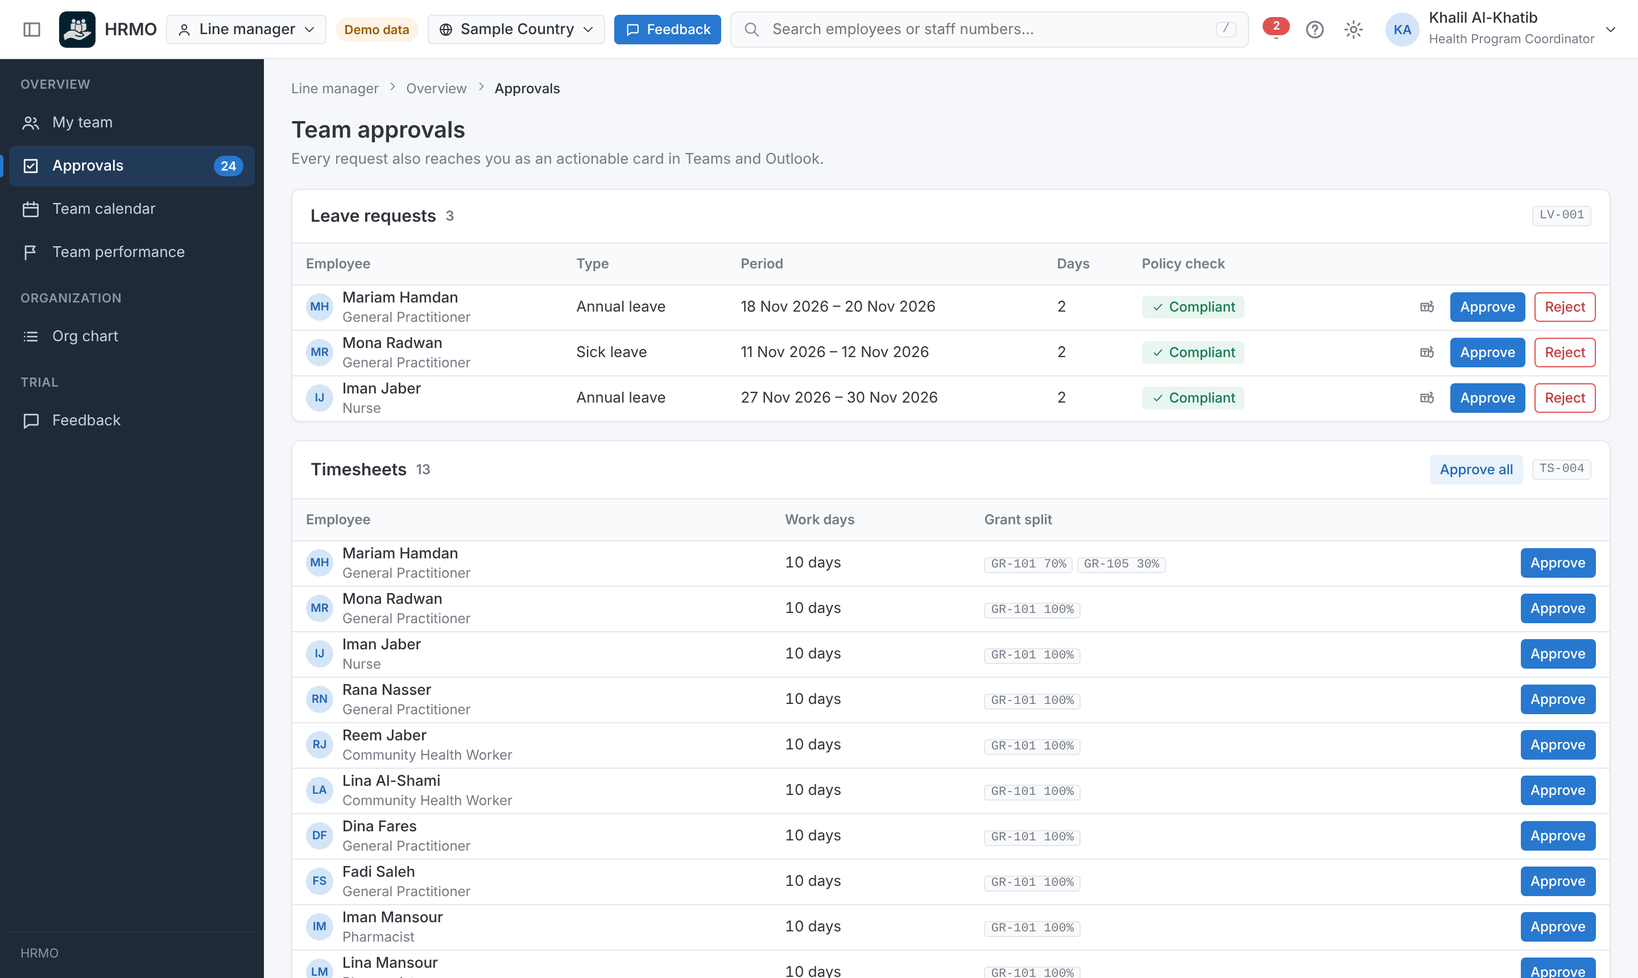
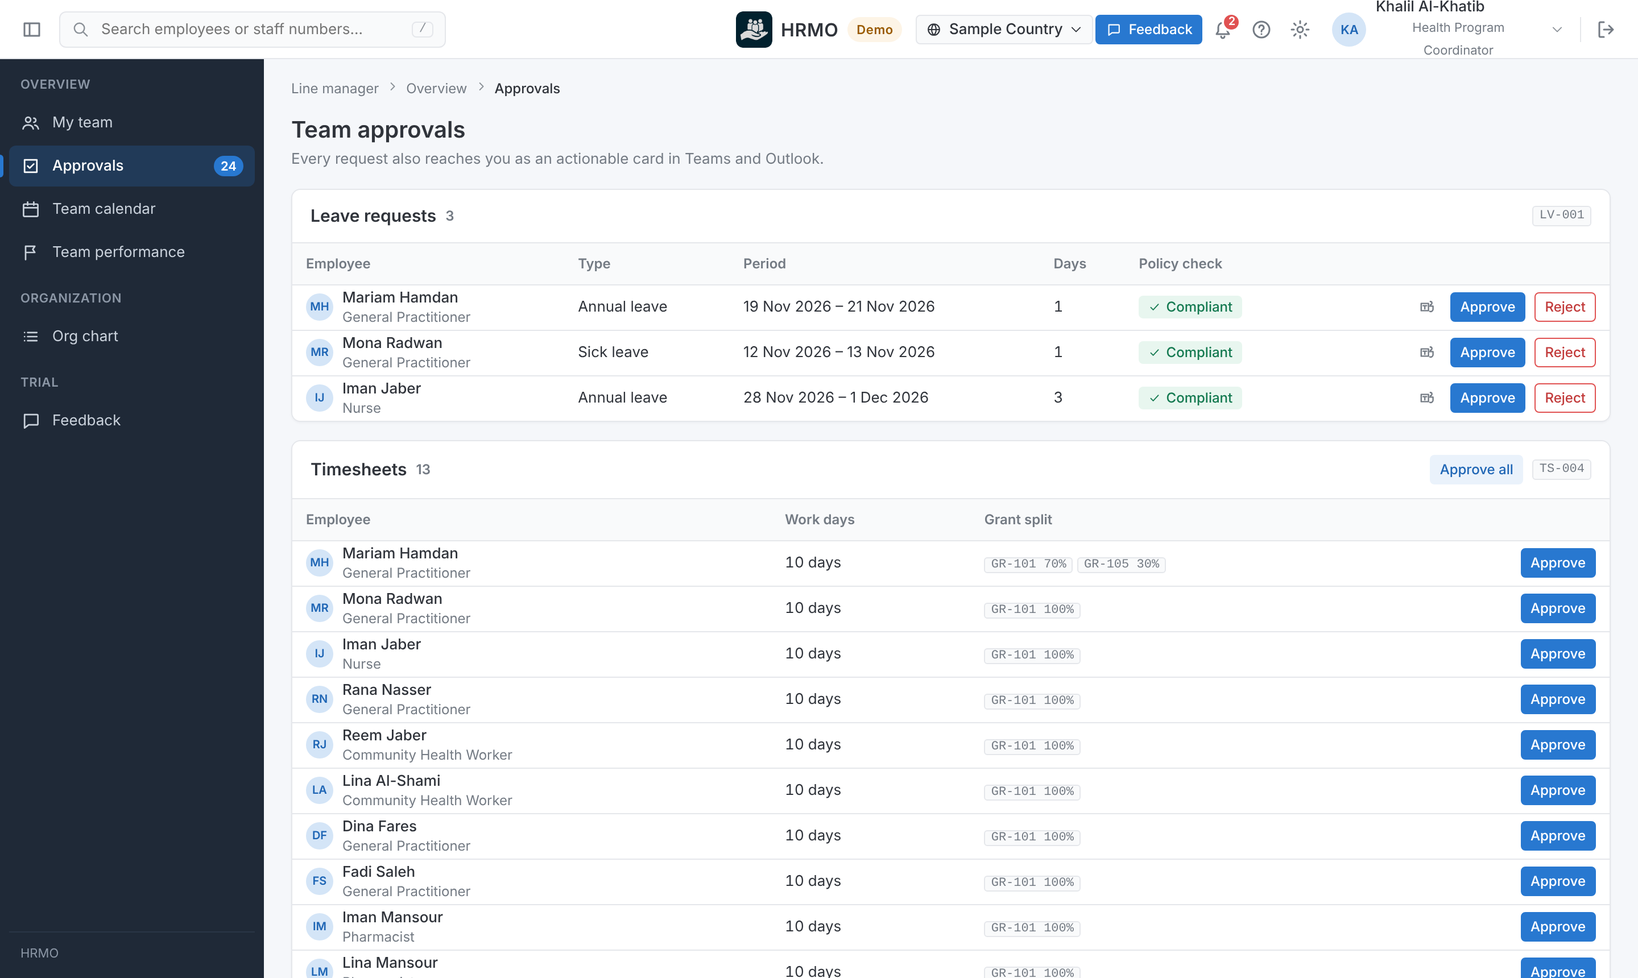
Sign-out, sign-in screen and a redesigned top bar
- The workspace switcher is removed from the top bar and from the user menu
- Sign-out icon at the end of the top bar and a sign-out item in the user menu; signing
  out opens a sign-in screen with the four demo accounts
- Top bar rebuilt as three zones with the logo centred at every width: menu and search at
  the start, notifications, account and sign-out at the end
- On phones the bar shows menu, logo, notifications, account and sign-out only
- The notification count no longer covers the bell
- Demo e-mail addresses follow each person's name

Claude-Session: https://claude.ai/code/session_01Ak2Py28yani1Do5WRRv8zp

diff --git a/demo/assets/modules/feedback.js b/demo/assets/modules/feedback.js
@@ -4,11 +4,11 @@
 (function () {
   'use strict';
   const H = window.HRMO;
-  const { S, EXT, L, esc, icon, fmtD, badge, toast, render, openOverlay, closeOverlay, store, addNav, pageHead, table, modal, emptyState, kpi, TODAY, iso } = H;
+  const { S, D, EXT, L, T, esc, icon, fmtD, badge, toast, render, openOverlay, closeOverlay, store, addNav, pageHead, table, modal, emptyState, kpi, TODAY, iso } = H;
   const CFG = (window.HRMO_CONFIG && window.HRMO_CONFIG.feedback) || {};
   const canSend = () => !!CFG.endpoint;
 
-  const TESTER = store('tester', () => ({ name: '', welcomed: false }));
+  const TESTER = store('tester', () => ({ name: '', welcomed: false, signedOut: false }));
   const ITEMS = store('feedback', () => []);
   try { const q = new URLSearchParams(location.search).get('tester'); if (q && !TESTER.name) TESTER.name = q.slice(0, 60); } catch (e) { /* ignore */ }
 
@@ -23,20 +23,27 @@
   ];
 
   // ---------- Welcome screen ----------
+  // The same screen serves as the first-visit welcome and as the sign-in screen after signing out.
   EXT.overlays.welcome = () => {
-    TESTER.welcomed = true;
-    return `<div class="welcome" role="dialog" aria-modal="true" aria-label="${esc(L('مرحبا بك في HRMO', 'Welcome to HRMO'))}"><div class="welcome-in">
-      <div class="welcome-top"><img src="assets/brand/apple-touch-icon.png" alt="" width="56" height="56"><div class="seg" role="group" aria-label="${esc(L('اللغة', 'Language'))}"><button data-act="wl-lang" data-v="ar" aria-pressed="${S.lang === 'ar'}">العربية</button><button data-act="wl-lang" data-v="en" aria-pressed="${S.lang === 'en'}">English</button></div></div>
-      <h1>${esc(TESTER.name ? L(`مرحبا ${TESTER.name}`, `Welcome, ${TESTER.name}`) : L('مرحبا بك في HRMO', 'Welcome to HRMO'))}</h1>
-      <p class="welcome-lead">${esc(L('نظام لإدارة الموارد البشرية في المؤسسات الإنسانية وغير الربحية. هذه نسخة تجريبية ببيانات وهمية، ونريد رأيك فيها قبل استكمال البناء.', 'An HR management system for humanitarian and non-profit organizations. This is a trial version with fictitious data, and we would like your view before building further.'))}</p>
+    const out = TESTER.signedOut; TESTER.welcomed = true;
+    const langs = `<div class="seg" role="group" aria-label="${esc(L('اللغة', 'Language'))}"><button data-act="wl-lang" data-v="ar" aria-pressed="${S.lang === 'ar'}">العربية</button><button data-act="wl-lang" data-v="en" aria-pressed="${S.lang === 'en'}">English</button></div>`;
+    const card = ([r, ic, name, a, b]) => { const p = H.empById.get(D.personas[r]); return `<button class="welcome-role" data-act="wl-start" data-role="${r}"><span class="wr-ic">${icon(ic, 20)}</span><span class="wr-t">${esc(L(...name))}</span>${out ? `<span class="wr-d">${esc(T(p.name.short))}</span><span class="wr-d">${esc(T(p.position))}</span>` : `<span class="wr-d">${esc(L(...a))}</span><span class="wr-d">${esc(L(...b))}</span>`}</button>`; };
+    const title = out ? L('تسجيل الدخول إلى HRMO', 'Sign in to HRMO') : TESTER.name ? L(`مرحبا ${TESTER.name}`, `Welcome, ${TESTER.name}`) : L('مرحبا بك في HRMO', 'Welcome to HRMO');
+    return `<div class="welcome ${out ? 'signin' : ''}" role="dialog" aria-modal="true" aria-label="${esc(title)}"><div class="welcome-in">
+      <div class="welcome-top"><img src="assets/brand/apple-touch-icon.png" alt="" width="56" height="56">${langs}</div>
+      <h1>${esc(title)}</h1>
+      ${out ? `<p class="welcome-lead">${esc(L('سجلت خروجك. اختر الحساب الذي تريد الدخول به.', 'You are signed out. Choose the account to sign in with.'))}</p>`
+    : `<p class="welcome-lead">${esc(L('نظام لإدارة الموارد البشرية في المؤسسات الإنسانية وغير الربحية. هذه نسخة تجريبية ببيانات وهمية، ونريد رأيك فيها قبل استكمال البناء.', 'An HR management system for humanitarian and non-profit organizations. This is a trial version with fictitious data, and we would like your view before building further.'))}</p>
       <div class="field welcome-name"><label for="wl-name">${esc(L('اسمك (يظهر مع ملاحظاتك)', 'Your name (shown with your feedback)'))}</label><input id="wl-name" class="input" data-wl="name" value="${esc(TESTER.name)}" autocomplete="name" placeholder="${esc(L('اختياري', 'Optional'))}"></div>
-      <h2>${esc(L('اختر واجهة للبدء', 'Choose a workspace to start'))}</h2>
-      <div class="welcome-roles">${ROLE_CARDS.map(([r, ic, name, a, b]) => `<button class="welcome-role" data-act="wl-start" data-role="${r}"><span class="wr-ic">${icon(ic, 20)}</span><span class="wr-t">${esc(L(...name))}</span><span class="wr-d">${esc(L(...a))}</span><span class="wr-d">${esc(L(...b))}</span></button>`).join('')}</div>
-      <div class="welcome-note">${icon('chat', 18)}<div><b>${esc(L('رأيك هو الهدف', 'Your view is the goal'))}</b><br>${esc(L('في أي شاشة اضغط زر "ملاحظة" واكتب ما تراه: قاعدة غير دقيقة، وظيفة ناقصة، أو شيء صعب الاستخدام. تسجل الشاشة التي كنت فيها تلقائيا.', 'On any screen press "Feedback" and write what you see: an inaccurate rule, a missing feature, or something hard to use. The screen you were on is recorded automatically.'))}</div></div>
-      <p class="welcome-foot">${esc(L('يمكنك التنقل بين الواجهات الأربع في أي وقت من أعلى الصفحة. كل ما تدخله يحفظ في متصفحك فقط.', 'You can switch between the four workspaces at any time from the top of the page. Everything you enter stays in your browser.'))}</p>
+      <h2>${esc(L('اختر واجهة للبدء', 'Choose a workspace to start'))}</h2>`}
+      <div class="welcome-roles">${ROLE_CARDS.map(card).join('')}</div>
+      ${out ? '' : `<div class="welcome-note">${icon('chat', 18)}<div><b>${esc(L('رأيك هو الهدف', 'Your view is the goal'))}</b><br>${esc(L('في أي شاشة اضغط زر "ملاحظة" واكتب ما تراه: قاعدة غير دقيقة، وظيفة ناقصة، أو شيء صعب الاستخدام. تسجل الشاشة التي كنت فيها تلقائيا.', 'On any screen press "Feedback" and write what you see: an inaccurate rule, a missing feature, or something hard to use. The screen you were on is recorded automatically.'))}</div></div>`}
+      <p class="welcome-foot">${esc(out ? L('في النسخة الفعلية يدخل كل شخص بحساب العمل ويرى واجهته فقط. هنا تختار الحساب لأن البيانات تجريبية.', 'In production each person signs in with their work account and sees only their own workspace. Here you choose the account because the data is fictitious.') : L('للانتقال إلى واجهة أخرى سجل الخروج من الأيقونة أعلى الصفحة ثم اختر حسابا آخر. كل ما تدخله يحفظ في متصفحك فقط.', 'To move to another workspace, sign out with the icon at the top of the page and choose another account. Everything you enter stays in your browser.'))}</p>
     </div></div>`;
   };
-  if (!TESTER.welcomed) S.overlay = { type: 'welcome' };
+  if (!TESTER.welcomed || TESTER.signedOut) S.overlay = { type: 'welcome' };
+  // While signed out the sign-in screen cannot be dismissed.
+  EXT.afterRender.push(() => { if (TESTER.signedOut && (!S.overlay || S.overlay.type !== 'welcome')) { S.overlay = { type: 'welcome' }; render(); } });
 
   // ---------- Feedback form ----------
   const blank = () => ({ type: 'POLICY', priority: 'SHOULD', rating: 0, text: '', area: '' });
@@ -93,7 +100,8 @@
   Object.assign(EXT.actions, {
     'wl-open': () => openOverlay({ type: 'welcome' }),
     'wl-lang': (t) => { S.lang = t.dataset.v; render(); },
-    'wl-start': (t) => { S.role = t.dataset.role; S.overlay = null; render(); toast(L('اضغط "ملاحظة" في أي وقت لتسجيل رأيك.', 'Press "Feedback" at any time to record your view.')); },
+    signout: () => { TESTER.signedOut = true; S.navOpen = false; S.overlay = { type: 'welcome' }; const th = document.getElementById('toast-host'); if (th) th.innerHTML = ''; const tp = document.getElementById('tooltip'); if (tp) tp.hidden = true; render(); },
+    'wl-start': (t) => { const was = TESTER.signedOut; TESTER.signedOut = false; S.role = t.dataset.role; S.overlay = null; render(); if (was) { toast(L(`مرحبا ${T(H.persona().name.short)}`, `Welcome, ${T(H.persona().name.short)}`)); return; } toast(L('اضغط "ملاحظة" في أي وقت لتسجيل رأيك.', 'Press "Feedback" at any time to record your view.')); },
     'fb-open': () => { S.fb = Object.assign(blank(), { area: here() }); openOverlay({ type: 'feedback' }); },
     'fb-rate': (t) => { const n = +t.dataset.v; S.fb.rating = S.fb.rating === n ? 0 : n; render(); },
     'fb-submit': async () => {

diff --git a/demo/assets/styles.css b/demo/assets/styles.css
@@ -107,23 +107,27 @@ svg { flex: none; }
 
 /* ---------- 3. Top bar ---------- */
 .app { display: grid; grid-template-rows: var(--h-topbar) minmax(0, 1fr); grid-template-columns: minmax(0, 1fr); height: 100vh; height: 100dvh; }
-.topbar { display: flex; align-items: center; gap: var(--s-2); padding-inline: var(--s-3); background: var(--surface); border-bottom: 1px solid var(--border); position: relative; z-index: 30; }
-.brand { display: flex; align-items: center; gap: var(--s-2); font-weight: var(--fw-semibold); font-size: 15px; white-space: nowrap; }
+.topbar { display: grid; grid-template-columns: minmax(0, 1fr) auto minmax(0, 1fr); align-items: center; gap: var(--s-3); padding-inline: var(--s-3); background: var(--surface); border-bottom: 1px solid var(--border); position: relative; z-index: 30; }
+.tb-start { display: flex; align-items: center; gap: var(--s-2); min-width: 0; }
+.brand { display: flex; align-items: center; gap: var(--s-2); font-weight: var(--fw-semibold); font-size: 16px; letter-spacing: .3px; white-space: nowrap; justify-self: center; }
 .brand .logo { width: 32px; height: 32px; border-radius: var(--r-md); display: block; flex: none; }
 .ws-switch { display: inline-flex; align-items: center; gap: 6px; height: var(--h-control-sm); padding: 0 var(--s-2); border: 1px solid var(--border); border-radius: var(--r-sm); background: var(--surface-2); color: var(--text); cursor: pointer; font-size: var(--fs-table); font-weight: var(--fw-medium); white-space: nowrap; }
 .ws-switch:hover { border-color: var(--border-strong); background: var(--surface-hover); }
 .demo-pill { font-size: 11px; font-weight: var(--fw-semibold); color: var(--warning-text); background: var(--warning-bg); border-radius: var(--r-pill); padding: 1px 8px; white-space: nowrap; }
-.search { flex: 1; max-width: 460px; margin-inline: auto; display: flex; align-items: center; gap: var(--s-2); height: var(--h-control); padding-inline: 10px; border: 1px solid var(--border); border-radius: var(--r-md); background: var(--surface-2); color: var(--text-3); transition: border-color var(--t-fast), background var(--t-fast); }
+.search { flex: 1; max-width: 340px; display: flex; align-items: center; gap: var(--s-2); height: var(--h-control); padding-inline: 10px; border: 1px solid var(--border); border-radius: var(--r-md); background: var(--surface-2); color: var(--text-3); transition: border-color var(--t-fast), background var(--t-fast); }
 .search:focus-within { border-color: var(--primary); background: var(--surface); box-shadow: var(--focus-ring); }
 .search input { border: 0; outline: 0; background: transparent; width: 100%; color: var(--text); font-size: var(--fs-table); }
 .search kbd { font: 11px var(--font-mono); color: var(--text-3); border: 1px solid var(--border); border-radius: 4px; padding: 0 5px; }
-.tools { display: flex; align-items: center; gap: 2px; }
+.tools { display: flex; align-items: center; gap: 2px; justify-self: end; min-width: 0; }
+.tb-sep { width: 1px; height: 22px; background: var(--border); margin-inline: 6px 4px; }
+.iconbtn.signout:hover { background: var(--danger-bg); color: var(--danger-text); }
+.userbtn .uchev { display: grid; color: var(--text-3); }
 .iconbtn { width: var(--h-control); height: var(--h-control); border-radius: var(--r-md); border: 0; background: transparent; display: grid; place-items: center; cursor: pointer; color: var(--text-2); position: relative; transition: background var(--t-fast), color var(--t-fast); }
 .iconbtn:hover { background: var(--surface-hover); color: var(--text); }
 .iconbtn:active { background: var(--primary-50); }
 .iconbtn.sm { width: var(--h-control-sm); height: var(--h-control-sm); }
 .iconbtn[disabled] { opacity: var(--disabled-opacity); cursor: not-allowed; }
-.iconbtn .count { position: absolute; top: 3px; inset-inline-end: 2px; min-width: 16px; height: 16px; padding-inline: 4px; border-radius: var(--r-pill); background: var(--danger); color: #fff; font-size: 10px; line-height: 16px; font-weight: var(--fw-semibold); border: 2px solid var(--surface); box-sizing: content-box; }
+.iconbtn .count { position: absolute; top: 1px; inset-inline-end: 0; box-sizing: border-box; min-width: 17px; height: 17px; padding-inline: 3px; border-radius: var(--r-pill); background: var(--danger); color: #fff; font-size: 10px; line-height: 13px; text-align: center; font-weight: var(--fw-semibold); border: 2px solid var(--surface); }
 .userbtn { display: flex; align-items: center; gap: var(--s-2); height: 36px; padding: 0 6px; margin-inline-start: var(--s-1); border: 0; border-radius: var(--r-md); background: transparent; cursor: pointer; color: var(--text); }
 .userbtn:hover { background: var(--surface-hover); }
 .userbtn .un { font-size: var(--fs-table); font-weight: var(--fw-medium); line-height: 16px; text-align: start; }
@@ -450,6 +454,7 @@ td .who .n { font-weight: var(--fw-medium); color: var(--text); }
   .g-4 { grid-template-columns: repeat(2, minmax(0, 1fr)); }
   .g-21, .g-12 { grid-template-columns: minmax(0, 1fr); }
   .userbtn .ut { display: none; }
+  .topbar .ws-switch .wl { display: none; }
 }
 @media (max-width: 900px) {
   .only-sm { display: grid !important; }
@@ -476,6 +481,10 @@ td .who .n { font-weight: var(--fw-medium); color: var(--text); }
   .quick { grid-template-columns: minmax(0, 1fr); }
   .hide-sm { display: none !important; }
   .demo-pill, .ws-switch .wl { display: none; }
+  .topbar { gap: var(--s-2); padding-inline: var(--s-2); }
+  .userbtn { padding: 0 2px; margin: 0; }
+  .userbtn .uchev { display: none; }
+  .tb-sep { margin-inline: 2px; }
   .tile .value { font-size: 20px; line-height: 28px; }
   .toast-host { left: var(--s-4); right: var(--s-4); transform: none; }
   .toast { min-width: 0; max-width: none; }
@@ -728,3 +737,5 @@ table.hires td, table.hires th { padding-block: 7px; }
 .oc-team .oc-box.new { border-top-color: var(--success); }
 @media (max-width: 720px) { .oc-wrap { height: 68vh; } .oc-tools .btn-row { width: 100%; } .oc-search { max-width: none; } }
 @media print { .oc-wrap { height: auto; overflow: visible; } }
+
+@media (max-width: 350px) { .topbar .brand > span:not(.demo-pill) { display: none; } }

diff --git a/demo/assets/app.js b/demo/assets/app.js
@@ -147,6 +147,7 @@
     approve: 'M4 4h12v12H4zM7 10l2 2 4-4',
     apps: 'M4 4h5v5H4zM11 4h5v5h-5zM4 11h5v5H4zM11 11h5v5h-5z',
     reset: 'M4 10a6 6 0 1 0 2-4.5M4 4v3.5h3.5',
+    logout: 'M8 3.5H5a1 1 0 0 0-1 1v11a1 1 0 0 0 1 1h3M12.5 6.5 16 10l-3.5 3.5M16 10H8',
     doc: 'M6 3h6l3 3v11H6zM12 3v3h3M8 10h5M8 13h5',
     up: 'M10 15V5M6 9l4-4 4 4',
     down: 'M4 7l6 6 6-6',
@@ -361,17 +362,20 @@
     const side = NAV[S.role].map((gr) => `<div class="nav-group"><div class="nav-group-label">${esc(L(gr.ar, gr.en))}</div>${gr.items.map(navItem).join('')}</div>`).join('');
     return `
     <header class="topbar">
-      <button class="iconbtn only-sm" data-act="nav-toggle" aria-label="${esc(L('القائمة', 'Menu'))}" aria-expanded="${S.navOpen}">${icon('menu')}</button>
-      <button class="iconbtn hide-md" data-act="collapse" aria-label="${esc(L('طي القائمة الجانبية', 'Collapse sidebar'))}" data-tip="${esc(esc(S.collapsed ? L('توسيع القائمة', 'Expand menu') : L('طي القائمة', 'Collapse menu')))}">${icon('panel')}</button>
-      <div class="brand"><img class="logo" src="assets/brand/apple-touch-icon.png" alt="" width="32" height="32"><span>HRMO</span></div>
-      <button class="ws-switch" data-act="menu-ws" aria-haspopup="menu" title="${esc(L('تبديل مساحة العمل', 'Switch workspace'))}">${icon(S.role === 'CD' ? 'chart' : S.role === 'HR' ? 'people' : 'person', 14)}<span class="wl">${esc(roleLabel(S.role))}</span>${icon('down', 12)}</button>
-      <span class="demo-pill">${esc(L('بيانات تجريبية', 'Demo data'))}</span>${EXT.topbar.map((fn) => fn()).join('')}
-      <label class="search">${icon('search', 16)}<span class="sr-only">${esc(L('بحث', 'Search'))}</span><input type="search" id="gsearch" placeholder="${esc(L('ابحث عن موظف أو رقم وظيفي…', 'Search employees or staff numbers…'))}" data-act="global-search"><kbd>/</kbd></label>
+      <div class="tb-start">
+        <button class="iconbtn only-sm" data-act="nav-toggle" aria-label="${esc(L('القائمة', 'Menu'))}" aria-expanded="${S.navOpen}">${icon('menu')}</button>
+        <button class="iconbtn hide-md" data-act="collapse" aria-label="${esc(L('طي القائمة الجانبية', 'Collapse sidebar'))}" data-tip="${esc(esc(S.collapsed ? L('توسيع القائمة', 'Expand menu') : L('طي القائمة', 'Collapse menu')))}">${icon('panel')}</button>
+        <label class="search">${icon('search', 16)}<span class="sr-only">${esc(L('بحث', 'Search'))}</span><input type="search" id="gsearch" placeholder="${esc(L('ابحث عن موظف أو رقم وظيفي…', 'Search employees or staff numbers…'))}" data-act="global-search"><kbd>/</kbd></label>
+      </div>
+      <div class="brand"><img class="logo" src="assets/brand/apple-touch-icon.png" alt="" width="32" height="32"><span>HRMO</span><span class="demo-pill">${esc(L('تجريبي', 'Demo'))}</span></div>
       <div class="tools">
+        ${EXT.topbar.map((fn) => fn()).join('')}
         <button class="iconbtn" data-act="activity" aria-label="${esc(L('الإشعارات', 'Notifications'))}" data-tip="${esc(esc(L('الإشعارات', 'Notifications')))}">${icon('bell')}${n ? `<span class="count">${n}</span>` : ''}</button>
         <button class="iconbtn hide-sm" data-act="help" aria-label="${esc(L('المساعدة', 'Help'))}" data-tip="${esc(esc(L('المساعدة', 'Help')))}">${icon('help')}</button>
         <button class="iconbtn hide-sm" data-act="prefs" aria-label="${esc(L('الإعدادات', 'Settings'))}" data-tip="${esc(esc(L('التفضيلات', 'Preferences')))}">${icon('gear')}</button>
-        <button class="userbtn" data-act="menu-user" aria-haspopup="menu" aria-label="${esc(T(p.name))}">${avatar(p)}<span class="ut hide-sm"><span class="un" style="display:block">${esc(T(p.name.short))}</span><span class="ur">${esc(T(p.position))}</span></span>${icon('down', 12)}</button>
+        <button class="userbtn" data-act="menu-user" aria-haspopup="menu" aria-label="${esc(T(p.name))}">${avatar(p)}<span class="ut"><span class="un" style="display:block">${esc(T(p.name.short))}</span><span class="ur">${esc(T(p.position))}</span></span><span class="uchev">${icon('down', 12)}</span></button>
+        <span class="tb-sep" aria-hidden="true"></span>
+        <button class="iconbtn signout" data-act="signout" aria-label="${esc(L('تسجيل الخروج', 'Sign out'))}" data-tip="${esc(esc(L('تسجيل الخروج', 'Sign out')))}">${icon('logout')}</button>
       </div>
     </header>
     <div class="shell ${S.collapsed ? 'collapsed' : ''} ${S.navOpen ? 'nav-open' : ''}">
@@ -405,8 +409,8 @@
     const p = persona();
     return `<div class="menu-head">${avatar(p)}<div style="min-width:0"><div class="n">${esc(T(p.name))}</div><div class="subtle" style="direction:ltr;text-align:start;overflow:hidden;text-overflow:ellipsis">${esc(p.email)}</div></div></div><div class="menu-sep"></div>
       ${mItem('my-profile', 'person', L('ملفي الشخصي', 'My profile'))}${mItem('prefs', 'gear', L('التفضيلات', 'Preferences'))}${mItem('help', 'help', L('المساعدة', 'Help'))}
-      <div class="menu-sep"></div><div class="menu-label">${esc(L('تبديل مساحة العمل', 'Switch workspace'))}</div>${ROLES.map(([r, ar, en]) => mItem('role', '', L(ar, en), `data-v="${r}"`, '', S.role === r)).join('')}
-      <div class="menu-sep"></div>${mItem('reset', 'reset', L('إعادة ضبط البيانات التجريبية', 'Reset demo data'), '', '', false, 'danger')}`;
+      <div class="menu-sep"></div>${mItem('reset', 'reset', L('إعادة ضبط البيانات التجريبية', 'Reset demo data'), '', '', false, 'danger')}
+      <div class="menu-sep"></div>${mItem('signout', 'logout', L('تسجيل الخروج', 'Sign out'))}`;
   }
   function rowMenu(id) {
     const e = empById.get(id);

diff --git a/demo/assets/data.js b/demo/assets/data.js
@@ -311,6 +311,9 @@
   const separations = [];
   for (let k = 0; k < 58; k++) separations.push({ date: iso(addDays(today, -int(5, 360))), type: weighted([['RESIGNATION', 5], ['CONTRACT_END', 6], ['REDUNDANCY', 2], ['DISCIPLINARY', 0.4]]), dept: weighted(deptPairs)[0] });
 
+  // E-mail follows the final name (the demo personas are renamed after generation).
+  employees.forEach((e, i) => { const w = e.name.en.split(' '); e.email = `${w[0].toLowerCase()}.${w[w.length - 1].toLowerCase().replace(/[^a-z]/g, '')}${i}@example.org`; });
+
   // Office of each separation, spread by office size without touching the random sequence.
   { const spread = ['MO', 'MO', 'MO', 'NF', 'NF', 'SF', 'SF', 'CF', 'CF', 'EF']; separations.forEach((s, k) => { s.office = spread[(k * 7) % 10]; }); }
 
